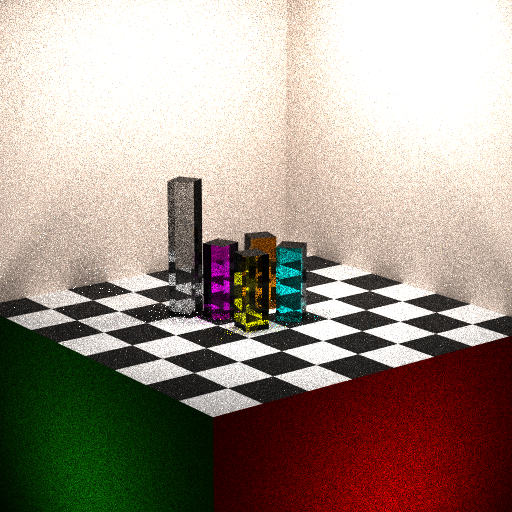
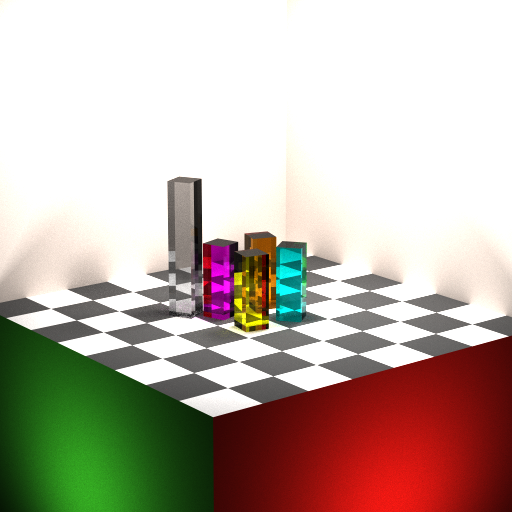
submit

diff --git a/README.md b/README.md
@@ -1,28 +1,26 @@
 Jiarui Yan(jiaruiya) HW7 Test Result:
 ======================
 
-MicrofacetBRDF Class:
+Cornell Box Two Lights:
 -------------
-![](./RenderedResult/MicrofacetBRDF_Class.png)
+![](./RenderedResult/cornellBoxTwoLight.png)
 
-MIS Example Renders:
+Custom Scene:
 -------------
-PT_cornellBoxTwoLights.json
+Chessboard:
 
-![](./RenderedResult/TwoLights.png)
+![](./RenderedResult/CustomScene_Chessboard.png)
 
-PT_roughMirrorBoxUniform.json
+HanoiTower (only sticks now, I will add disc after k-d tree):
 
-![](./RenderedResult/roughMirror.png)
+![](./RenderedResult/CustomScene_HanoiTower.png)
+
+Photodrop Glass Balls:
+
+![](./RenderedResult/CustomScene_PhotoDropGlassBalls.png)
 
 Extra Credit (In custom scene):
 -------------
-### 1. TrowbridgeReitz distribution roughness comparsion:
-left: 0.1 roughness; right: 0.8 roughness;
+### microfacetTransimissive material;
 
-![](./RenderedResult/CustomScene_TrowbridgeReitz.png)
-
-### 2. Comparsion between TrowbridgeReitz and Beckmann:
-left: TrowbridgeReitz, 0.5 roughness; right: Beckmann, 0.5 roughness;
-
-![](./RenderedResult/CustomScene_DistributionCompare.png)
+![](./RenderedResult/microfacetTransmisive.png)
